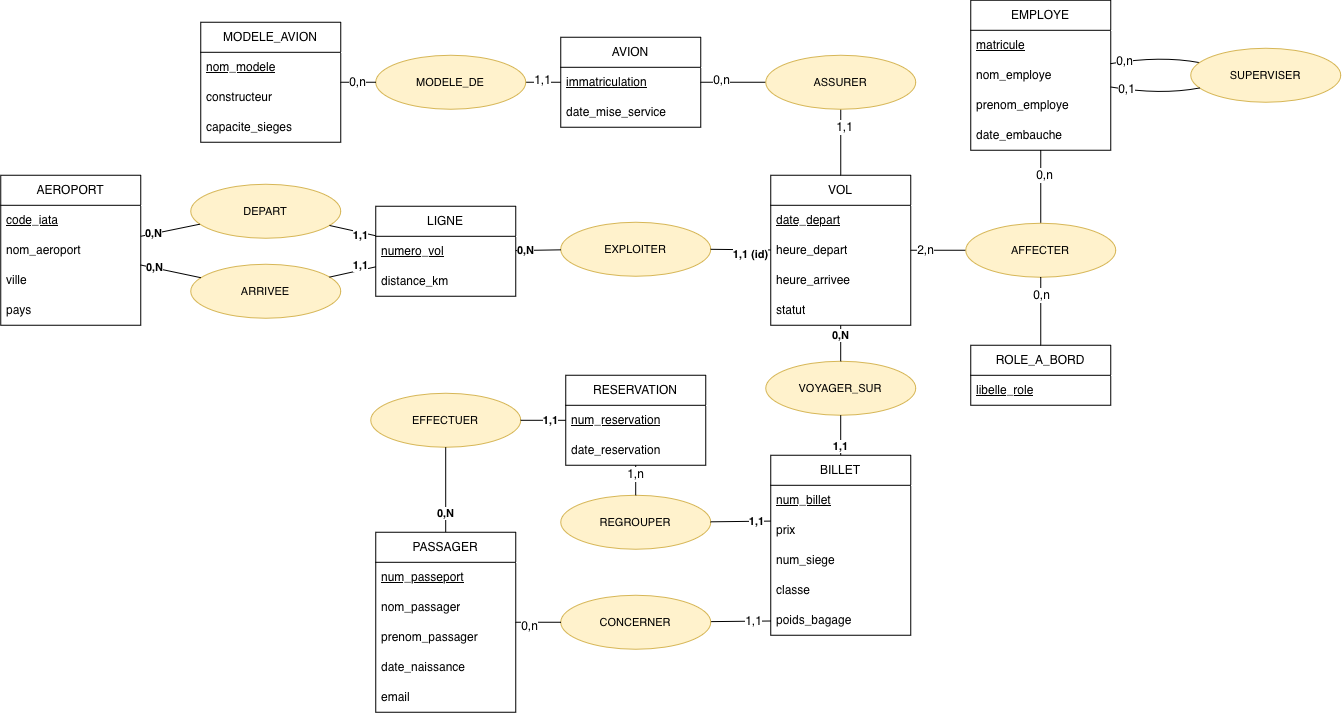
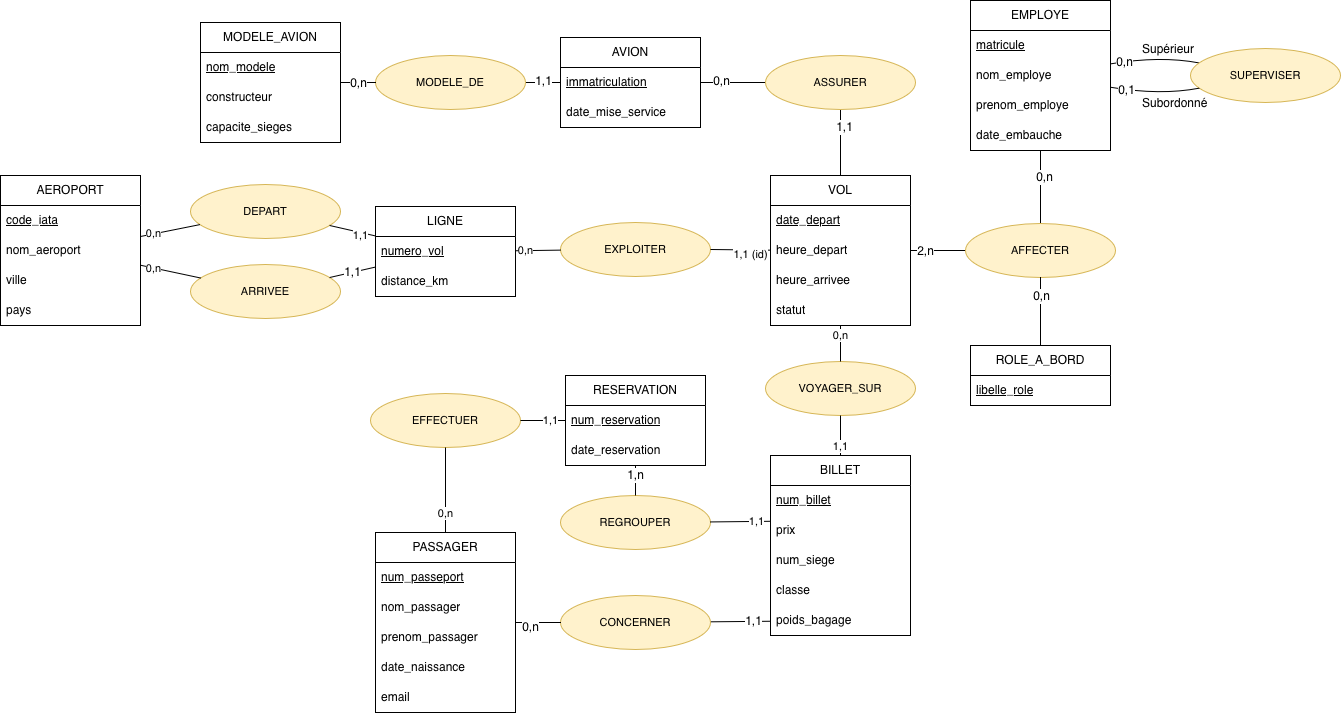
Updated README, added .txt file

diff --git a/README.md b/README.md
@@ -4,12 +4,11 @@
 **Partie 1** : analyse des besoins et MCD
 
 
-
 ## Étape 1 : Analyse des besoins
 
 ### 1.1 Prompt final (framework RICARDO)
 
-Le prompt part de la base fournie. Seules les parties **Contexte** et **Références** ont été complétées.
+Le prompt part de la base fournie. Seules les parties **Contexte** et **Références** ont été complétées. Le même texte est disponible dans `prompt.txt`.
 
 ```text
 Tu travailles dans le domaine des compagnies aériennes. Ta compagnie a comme activité d’organiser des vols de passagers (court, moyen et long-courrier) entre différents aéroports, avec une flotte d’avions, des équipages et un système de réservation et de vente de billets. C’est une compagnie comme Air France, Ryanair, Air India ou Delta. Inspire-toi des sites web suivants : https://www.airfrance.fr, https://www.ryanair.com, https://www.airindia.com, https://www.delta.com.
@@ -90,17 +89,43 @@ Fournis donc les règles de gestion et le dictionnaire de données.
 | 32 | Classe de voyage du billet | Texte | 15 caractères |
 | 33 | Poids de bagage en soute choisi pour le billet, en kg | Entier | 2 chiffres |
 
-> **Modifications par rapport à la réponse de l'IA** : la carte de fidélité du passager (règle de gestion et donnée n° 28 du dictionnaire d'origine) et la fonction de l'employé (règle de gestion et donnée n° 20) ont été retirées, le rôle à bord suffisant à décrire le travail de l'employé sur un vol. Par ailleurs, la classe de voyage et le poids de bagage sont des données propres au billet (le passager choisit son poids de bagage). Le dictionnaire compte donc 33 données.
+### 1.4 Problèmes relevés et modifications apportées
+
+La réponse initiale de l'IA contenait des données en trop ou mal placées. Les modifications suivantes ont été faites :
+
+- **Carte de fidélité du passager** : retirée, car elle n'est pas nécessaire au fonctionnement décrit (vols, réservations, billets).
+- **Fonction de l'employé** : retirée, car elle fait doublon avec le rôle à bord, qui suffit à décrire le travail de l'employé sur un vol.
+- **Classe de voyage et poids de bagage** : ce sont des données propres au billet (le passager choisit son poids de bagage), et non au passager ou à la classe.
+
+Le dictionnaire compte donc **33 données**
+
+---
 
 ## Étape 2 : MCD
 
 **Outil de modélisation utilisé** : draw.io
 
-**Fichier source** : `[Lien draw.io](https://drive.google.com/file/d/1GQE_Xg7uJaPWITQxJn6EabNelp2B7sxK/view?usp=sharing)`
+**Fichier source** : [ProjetBD.drawio](https://drive.google.com/file/d/1GQE_Xg7uJaPWITQxJn6EabNelp2B7sxK/view?usp=sharing)
 
-![MCD du projet](mcd/ProjetBD.png)
+![MCD du projet](./mcd/ProjetBD.png)
 
-Contraintes (hors cardinalités)
+**Légende** : La mention `(id)` sur la branche VOL – EXPLOITER indique que l'entité VOL est une entité faible, identifiée relativement à LIGNE.
+
+### 2.1 Éléments de modélisation avancée
+
+- **Association récursive : SUPERVISER** (EMPLOYE – EMPLOYE). Un employé a au plus un supérieur (0,1), qui est lui-même un employé, et un employé peut superviser plusieurs personnes (0,n). Seul le directeur des opérations n'a pas de supérieur. Elle porte la donnée n° 20.
+- **Association ternaire : AFFECTER** (EMPLOYE, VOL, ROLE_A_BORD). Un employé tient un rôle précis sur un vol donné. Un vol a au moins deux employés (2,n) : un commandant de bord et un officier pilote de ligne.
+- **Entité faible : VOL**, identifiée par la date de départ relativement à LIGNE (entité forte). Un vol est l'exploitation d'une ligne à une date précise, donc le numéro de vol seul ne suffit pas à l'identifier.
+
+### 2.2 Choix de modélisation
+
+- **MODELE_AVION** est séparé de **AVION** : la capacité et le constructeur dépendent du modèle, pas de l'avion (3FN).
+- **LIGNE** est reliée à AEROPORT par deux associations, DEPART et ARRIVEE, ce qui permet de distinguer l'aéroport de départ et celui d'arrivée.
+- **RESERVATION** est séparée de **BILLET** : une réservation regroupe plusieurs billets et est faite par un seul passager.
+- **Classe**, **poids de bagage**, **prix** et **numéro de siège** sont des attributs de BILLET, car ils sont propres à chaque billet.
+
+### 2.3 Contraintes (hors cardinalités)
+
 - AFFECTER : un seul rôle par couple (employé, vol)
 - VOL : au moins 1 commandant de bord et 1 officier pilote de ligne
 - BILLET : un siège n'est attribué qu'une fois par vol
